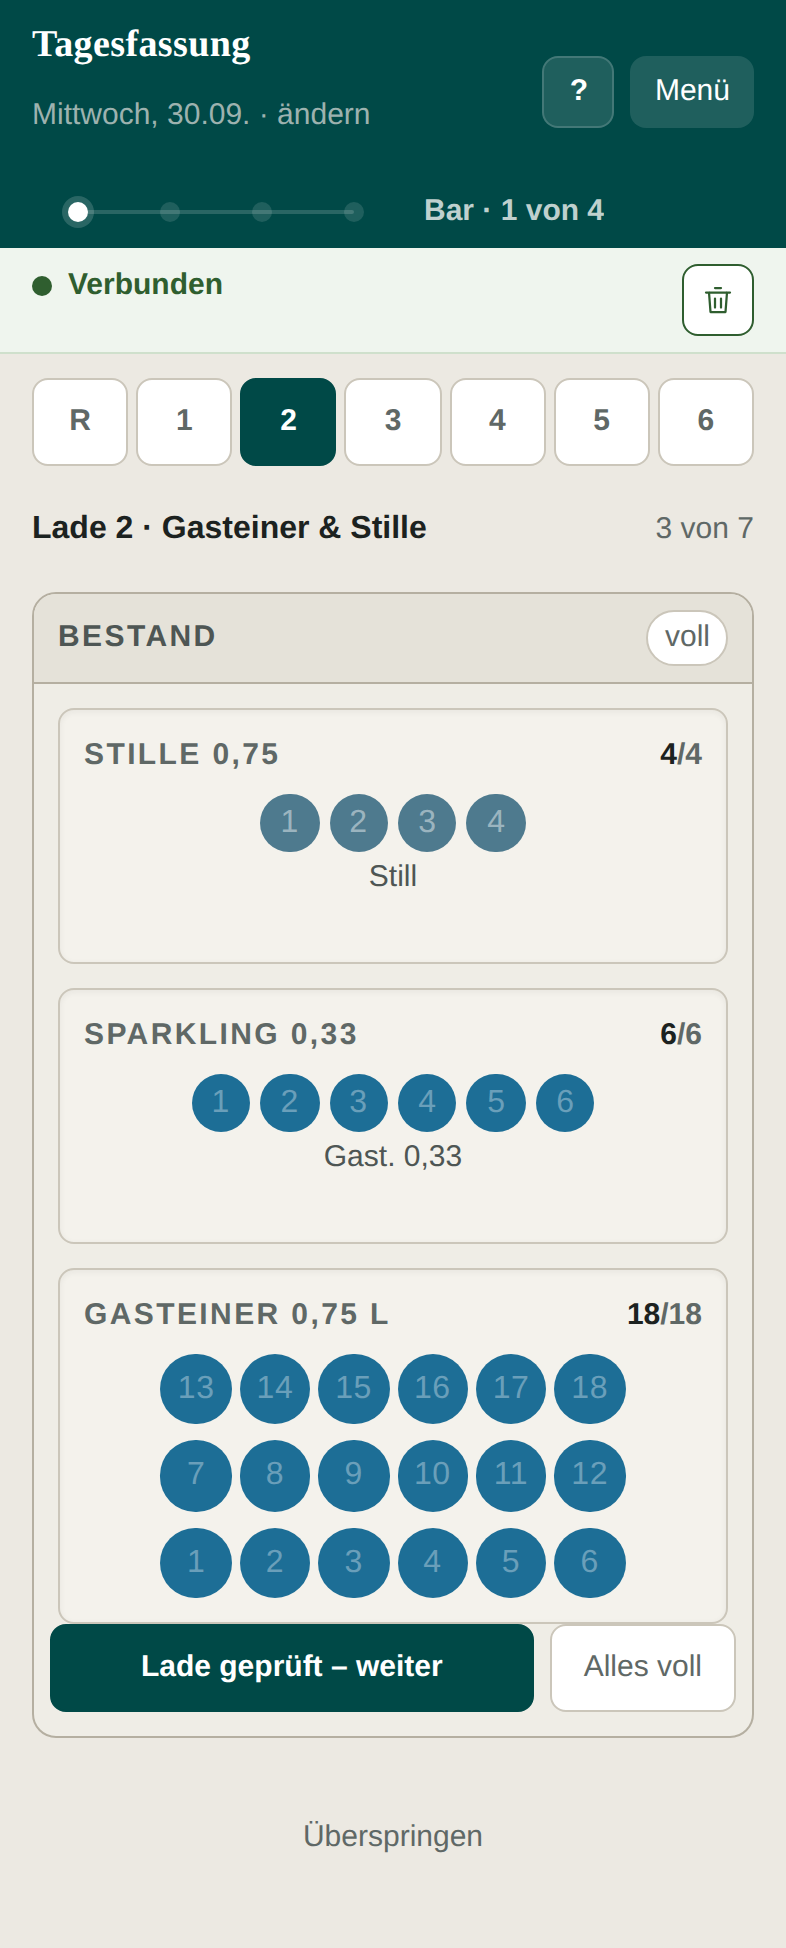
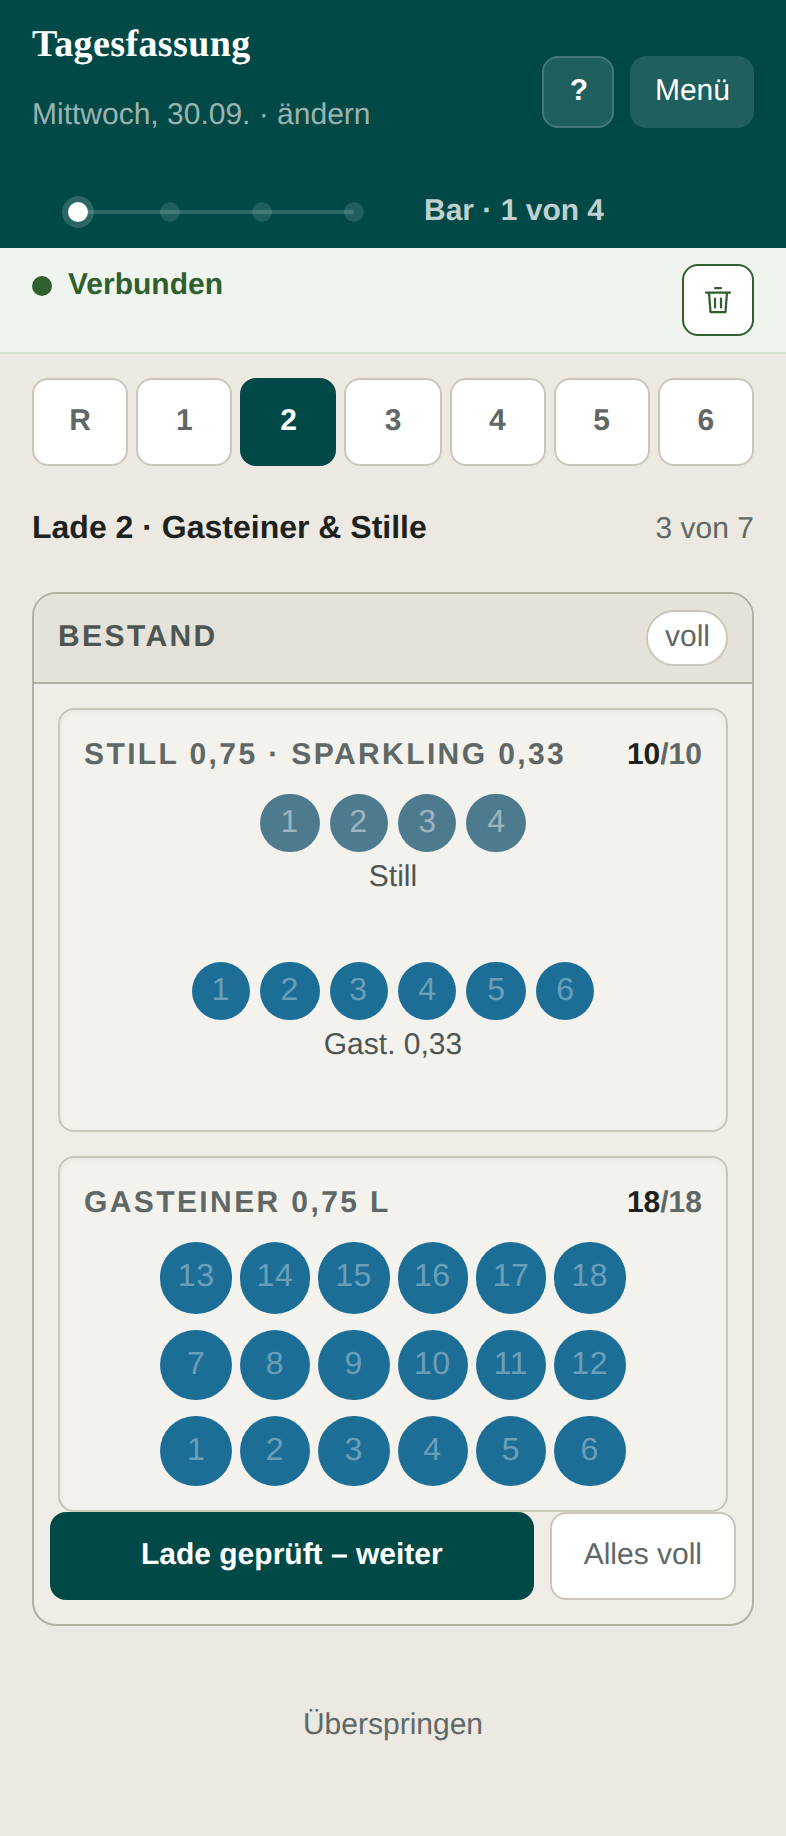
[software-engineer] Runde 24: Sparkling 0,33 ins Kästchen der Stillen
Claude-Session: https://claude.ai/code/session_01XL68Bp63fcSJLfNTZNmuMH

diff --git a/public/leitung.html b/public/leitung.html
@@ -1150,10 +1150,8 @@ function colTeile(c){
    gegeneinander und wird rot, sobald sie wieder auseinanderlaufen. */
 const WLADEN=[
  {id:"gast",t:"Lade 2 · Gasteiner & Stille",kind:"fach",
-  fach:[{t:"Stille 0,75",kind:"reihen",quer:1,zeilen:[
-          [["gastill",4]]]},
-        {t:"Sparkling 0,33",kind:"reihen",quer:1,zeilen:[
-          [["gast033",6]]]},
+  fach:[{t:"Still 0,75 · Sparkling 0,33",kind:"reihen",quer:1,zeilen:[
+          [["gastill",4]],[["gast033",6]]]},
         {t:"Gasteiner 0,75 l",kind:"raster",fid:"gasteiner",n:18,pro:6,leerOben:1}]},
  {id:"wein",t:"Lade 3 · Offene Weine",kind:"fach",wein:1,
   fach:[{t:"Sekt & Champagner",kind:"reihen",leerOben:1,zeilen:[

diff --git a/public/index.html b/public/index.html
@@ -4779,10 +4779,8 @@ function gIcon(id){
    wie die Flaschen tatsaechlich drinliegen. */
 const WLADEN=[
  {id:"gast",t:"Lade 2 · Gasteiner & Stille",kind:"fach",
-  fach:[{t:"Stille 0,75",kind:"reihen",quer:1,zeilen:[
-          [["gastill",4]]]},
-        {t:"Sparkling 0,33",kind:"reihen",quer:1,zeilen:[
-          [["gast033",6]]]},
+  fach:[{t:"Still 0,75 · Sparkling 0,33",kind:"reihen",quer:1,zeilen:[
+          [["gastill",4]],[["gast033",6]]]},
         {t:"Gasteiner 0,75 l",kind:"raster",fid:"gasteiner",n:18,pro:6,leerOben:1}]},
  {id:"wein",t:"Lade 3 · Offene Weine",kind:"fach",wein:1,
   /* Alles auf einer Hoehe: die drei Serena-Saeulen stehen neben Seher und

diff --git a/public/sw.js b/public/sw.js
@@ -21,7 +21,7 @@
    Sonst behält das iPhone hartnäckig den alten Stand.
    ════════════════════════════════════════════════════════════════════ */
 
-const VERSION = "v76";
+const VERSION = "v77";
 const SPEICHER = "hh-fassung-" + VERSION;
 
 /* Was im Keller verfügbar sein muss. Die Schriften stehen mit drin,

diff --git a/STAND.md b/STAND.md
@@ -6,7 +6,7 @@ Diese Datei zuerst lesen. Das ganze Repo zu erkunden ist nicht nötig.
 Tiefe Details: `PROJEKTANLEITUNG-Fassungstool.md`, `UEBERGABE-TECHNISCH.md`.
 
 ## Wo wir stehen
-- **Runde 24 liegt als PR bereit** (nicht gemergt). Runde 23 ist LIVE (PR #18).
+- **Runde 24 ist gemergt und LIVE** (PR #21, 30.09.2026).
 - Die Runden 17 bis 22 stehen weiter unten, jede mit dem, was sie gebracht hat.
 - Jeder Push auf `main` geht **automatisch live** (Workers Builds).
 - `sw.js` steht mit Runde 23 auf **v73**.
@@ -22,7 +22,7 @@ Tiefe Details: `PROJEKTANLEITUNG-Fassungstool.md`, `UEBERGABE-TECHNISCH.md`.
 
 ## Runde 24 (30.09.2026) — Backoffice neu geordnet, „leer" in der App
 
-Branch `claude/upbeat-tesla-wq8whz`, PR #21 offen (nicht gemergt). `sw.js` **v76**.
+Branch `claude/upbeat-tesla-wq8whz`, PR #21 gemergt am 30.09. (LIVE). `sw.js` **v77**.
 `npm test` **583/583**. Browser: `node tests/ui-runde24.cjs` 30/30,
 `node tests/ui-runde24-app.cjs` 9/9. **Keine Migration.**
 
@@ -38,7 +38,7 @@ Branch `claude/upbeat-tesla-wq8whz`, PR #21 offen (nicht gemergt). `sw.js` **v76
   „Zusätzlich entnommen" als eigene Karte.
 - Nachtrag 30.09.: Bar · Rotweine = Achs Goldberg (w024), Gebeshuber (w032),
   Dürnberg Elementum (w036); Geräte mit alter Voreinstellung stellen selbst um.
-  Lade 2 = 4 still + 6 **Gasteiner sparkling 0,33** (neu, `gast033`) + 18 Gasteiner
+  Lade 2 = oben ein Kästchen: 4 still + 6 **Gasteiner sparkling 0,33** (neu, `gast033`) + 18 Gasteiner
   **0,75 l** (6 je Reihe). Der 0,25er (`gastklein`) ist aus den Laden raus (Name bleibt
   für alte Vorgänge). **Zitronensaft gerade nicht vorrätig** (`NICHT_VORRAETIG` in
   beiden HTML): kein Soll, in Lade 1 als „aus". Zurück: dort streichen.

diff --git a/review/ERGEBNIS.md b/review/ERGEBNIS.md
@@ -22,7 +22,7 @@
 
 ## Nachtrag 30.09. · Laden und Bar
 - **Bar · Rotweine:** Achs Goldberg, Gebeshuber Pinot Noir, Dürnberg Elementum (Geräte mit alter Voreinstellung stellen selbst um).
-- **Lade 2:** 4 still · 6 Gasteiner sparkling **0,33** (neu) · 18 Gasteiner **0,75 l** (6 je Reihe). Der 0,25er ist aus den Laden genommen.
+- **Lade 2:** oben ein Kästchen mit 4 still und 6 Gasteiner sparkling **0,33** (neu), unten 18 Gasteiner **0,75 l** (6 je Reihe). Der 0,25er ist aus den Laden genommen.
 - **Zitronensaft** gerade nicht vorrätig: kein Soll, in Lade 1 als „aus".
 
 ## Worker
@@ -30,8 +30,8 @@
 
 ## Geprüft
 - `npm test` **583 von 583** (neu: `tests/gastronovi-liste.test.mjs`).
-- Browser: `tests/ui-runde24.cjs` **30/30** (echter Worker), `tests/ui-runde24-app.cjs` **13/13**, `ui-leitung-echt` 44/44, `ui-runde22` 31/31, `ui-runde21` 19/19, `ui-runde17` 38/38, `ui-runde18` ohne Fund.
-- Bilder: `review/screens/r24/`. `sw.js` auf **v76**.
+- Browser: `tests/ui-runde24.cjs` **30/30** (echter Worker), `tests/ui-runde24-app.cjs` **14/14**, `ui-leitung-echt` 44/44, `ui-runde22` 31/31, `ui-runde21` 19/19, `ui-runde17` 38/38, `ui-runde18` ohne Fund.
+- Bilder: `review/screens/r24/`. `sw.js` auf **v77**.
 
 🤖 Generated with [Claude Code](https://claude.com/claude-code)
 
